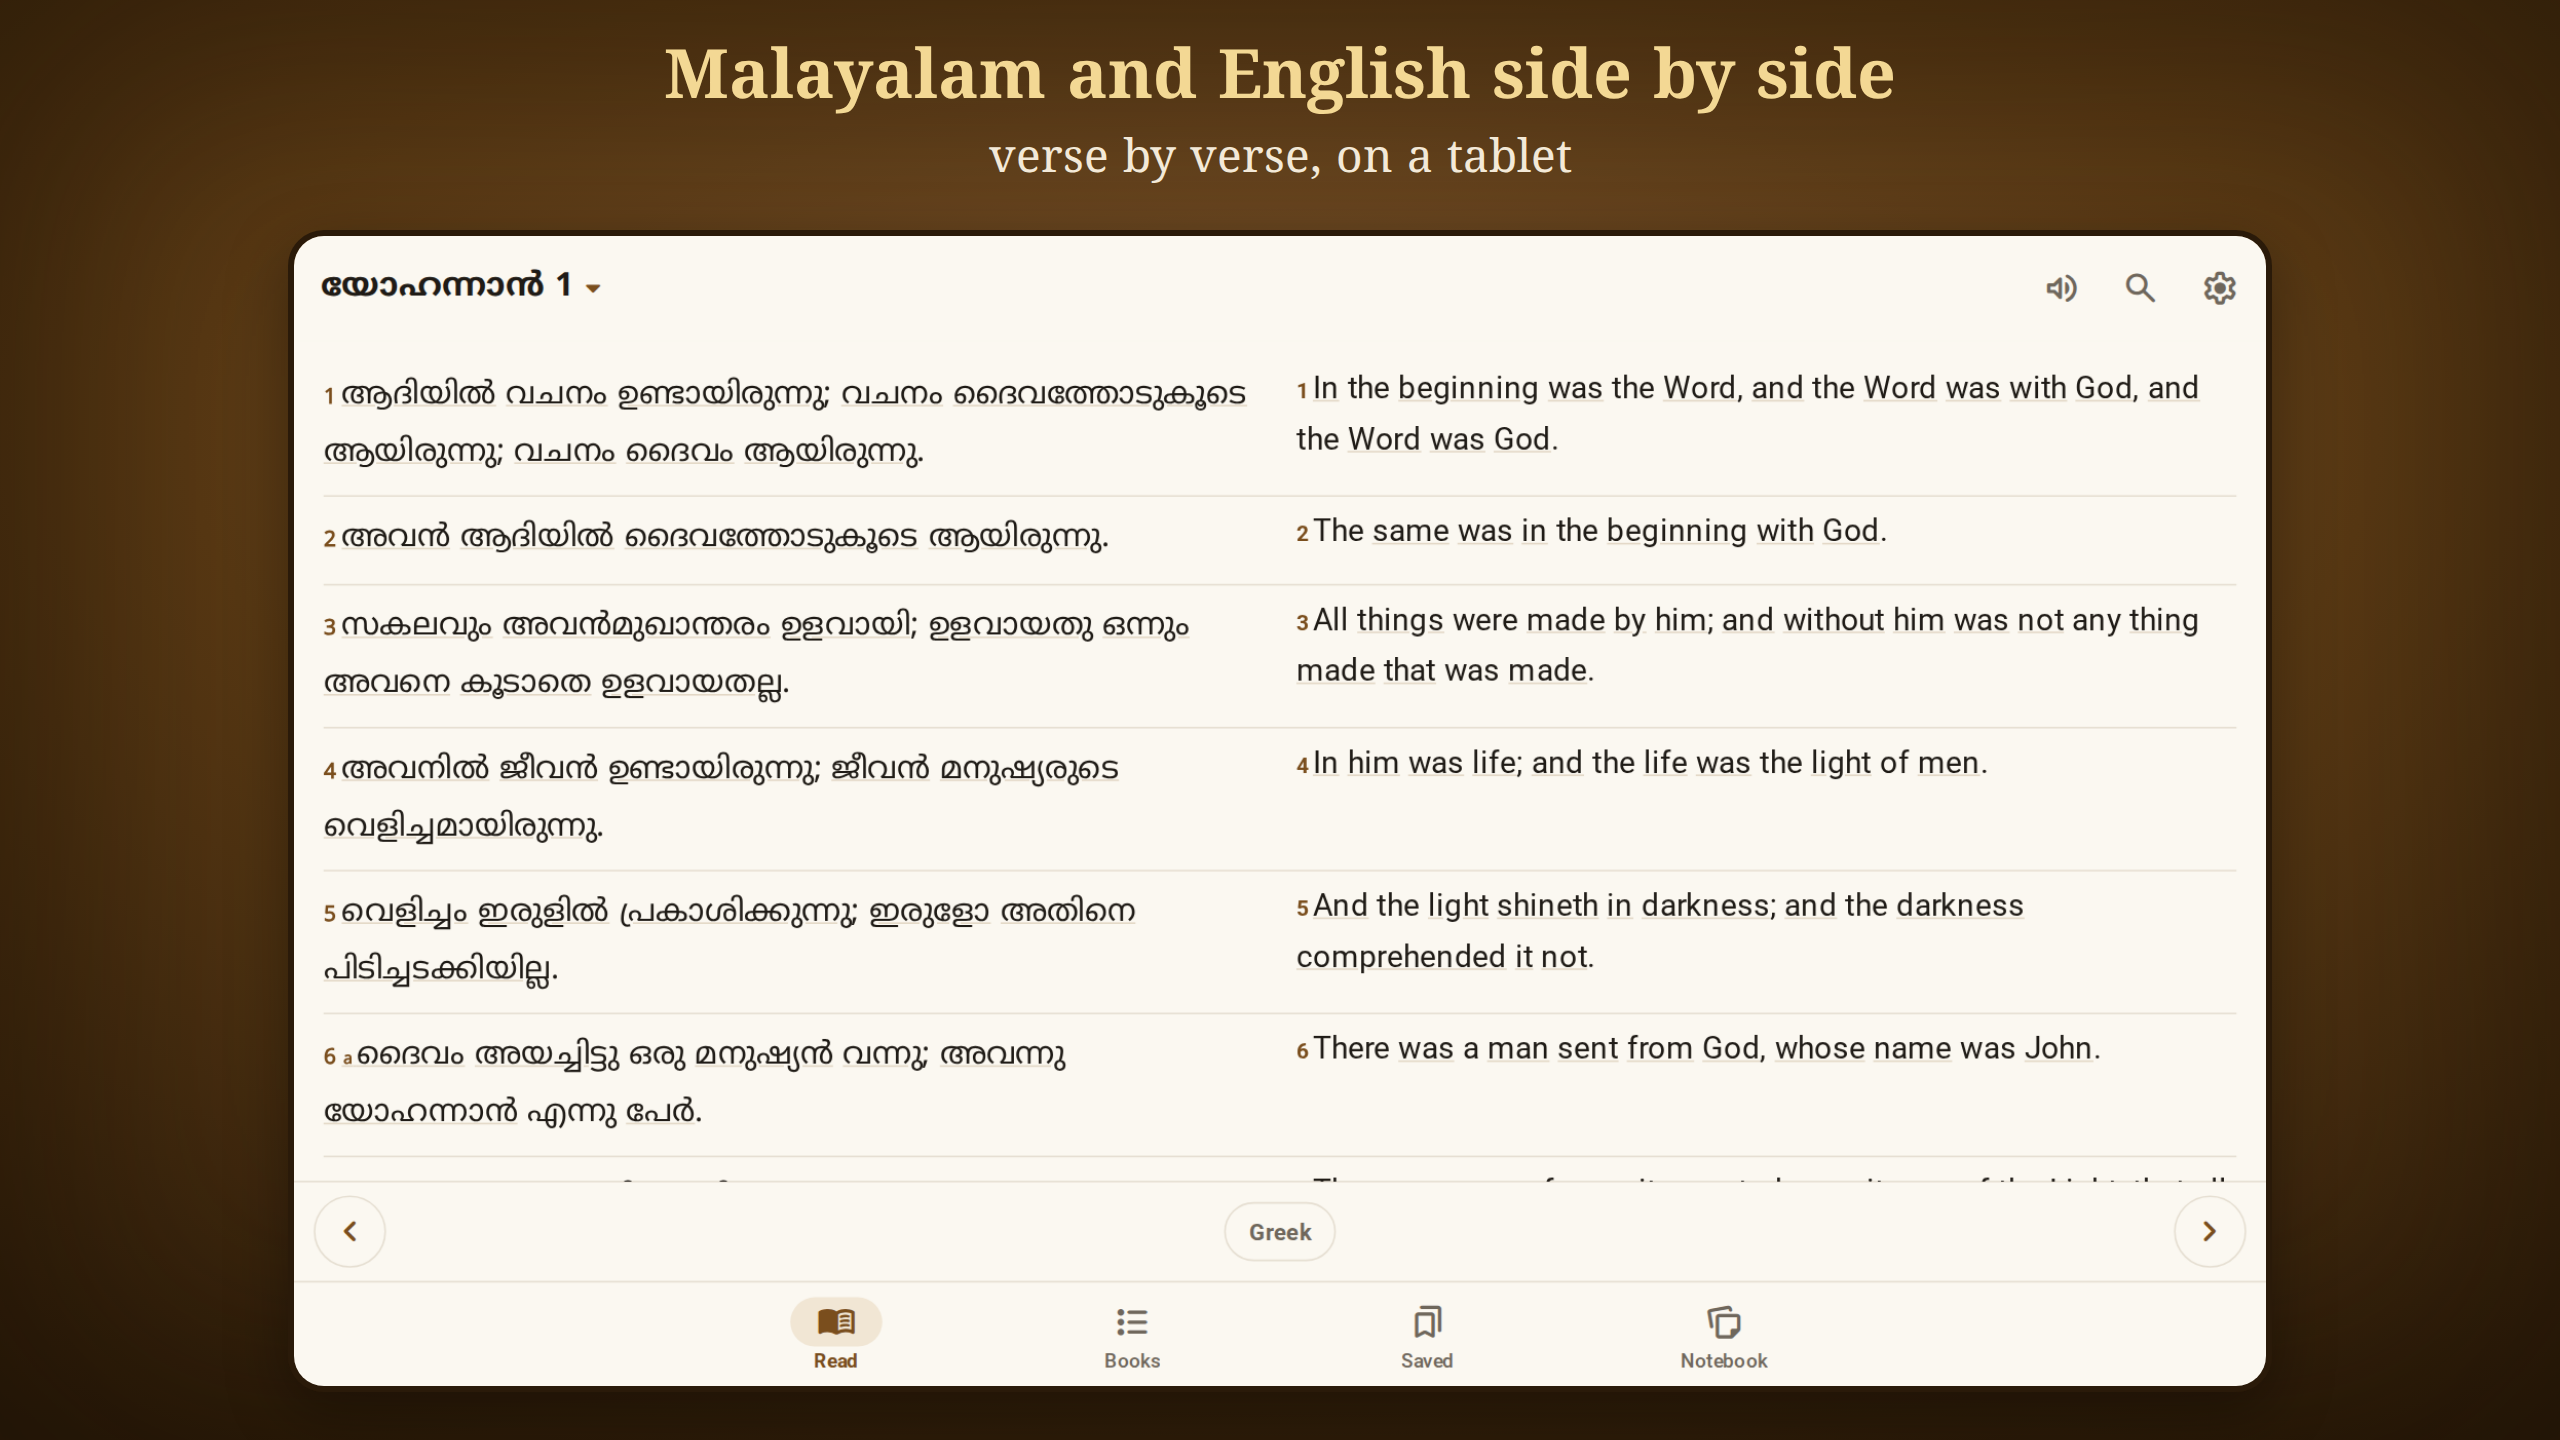
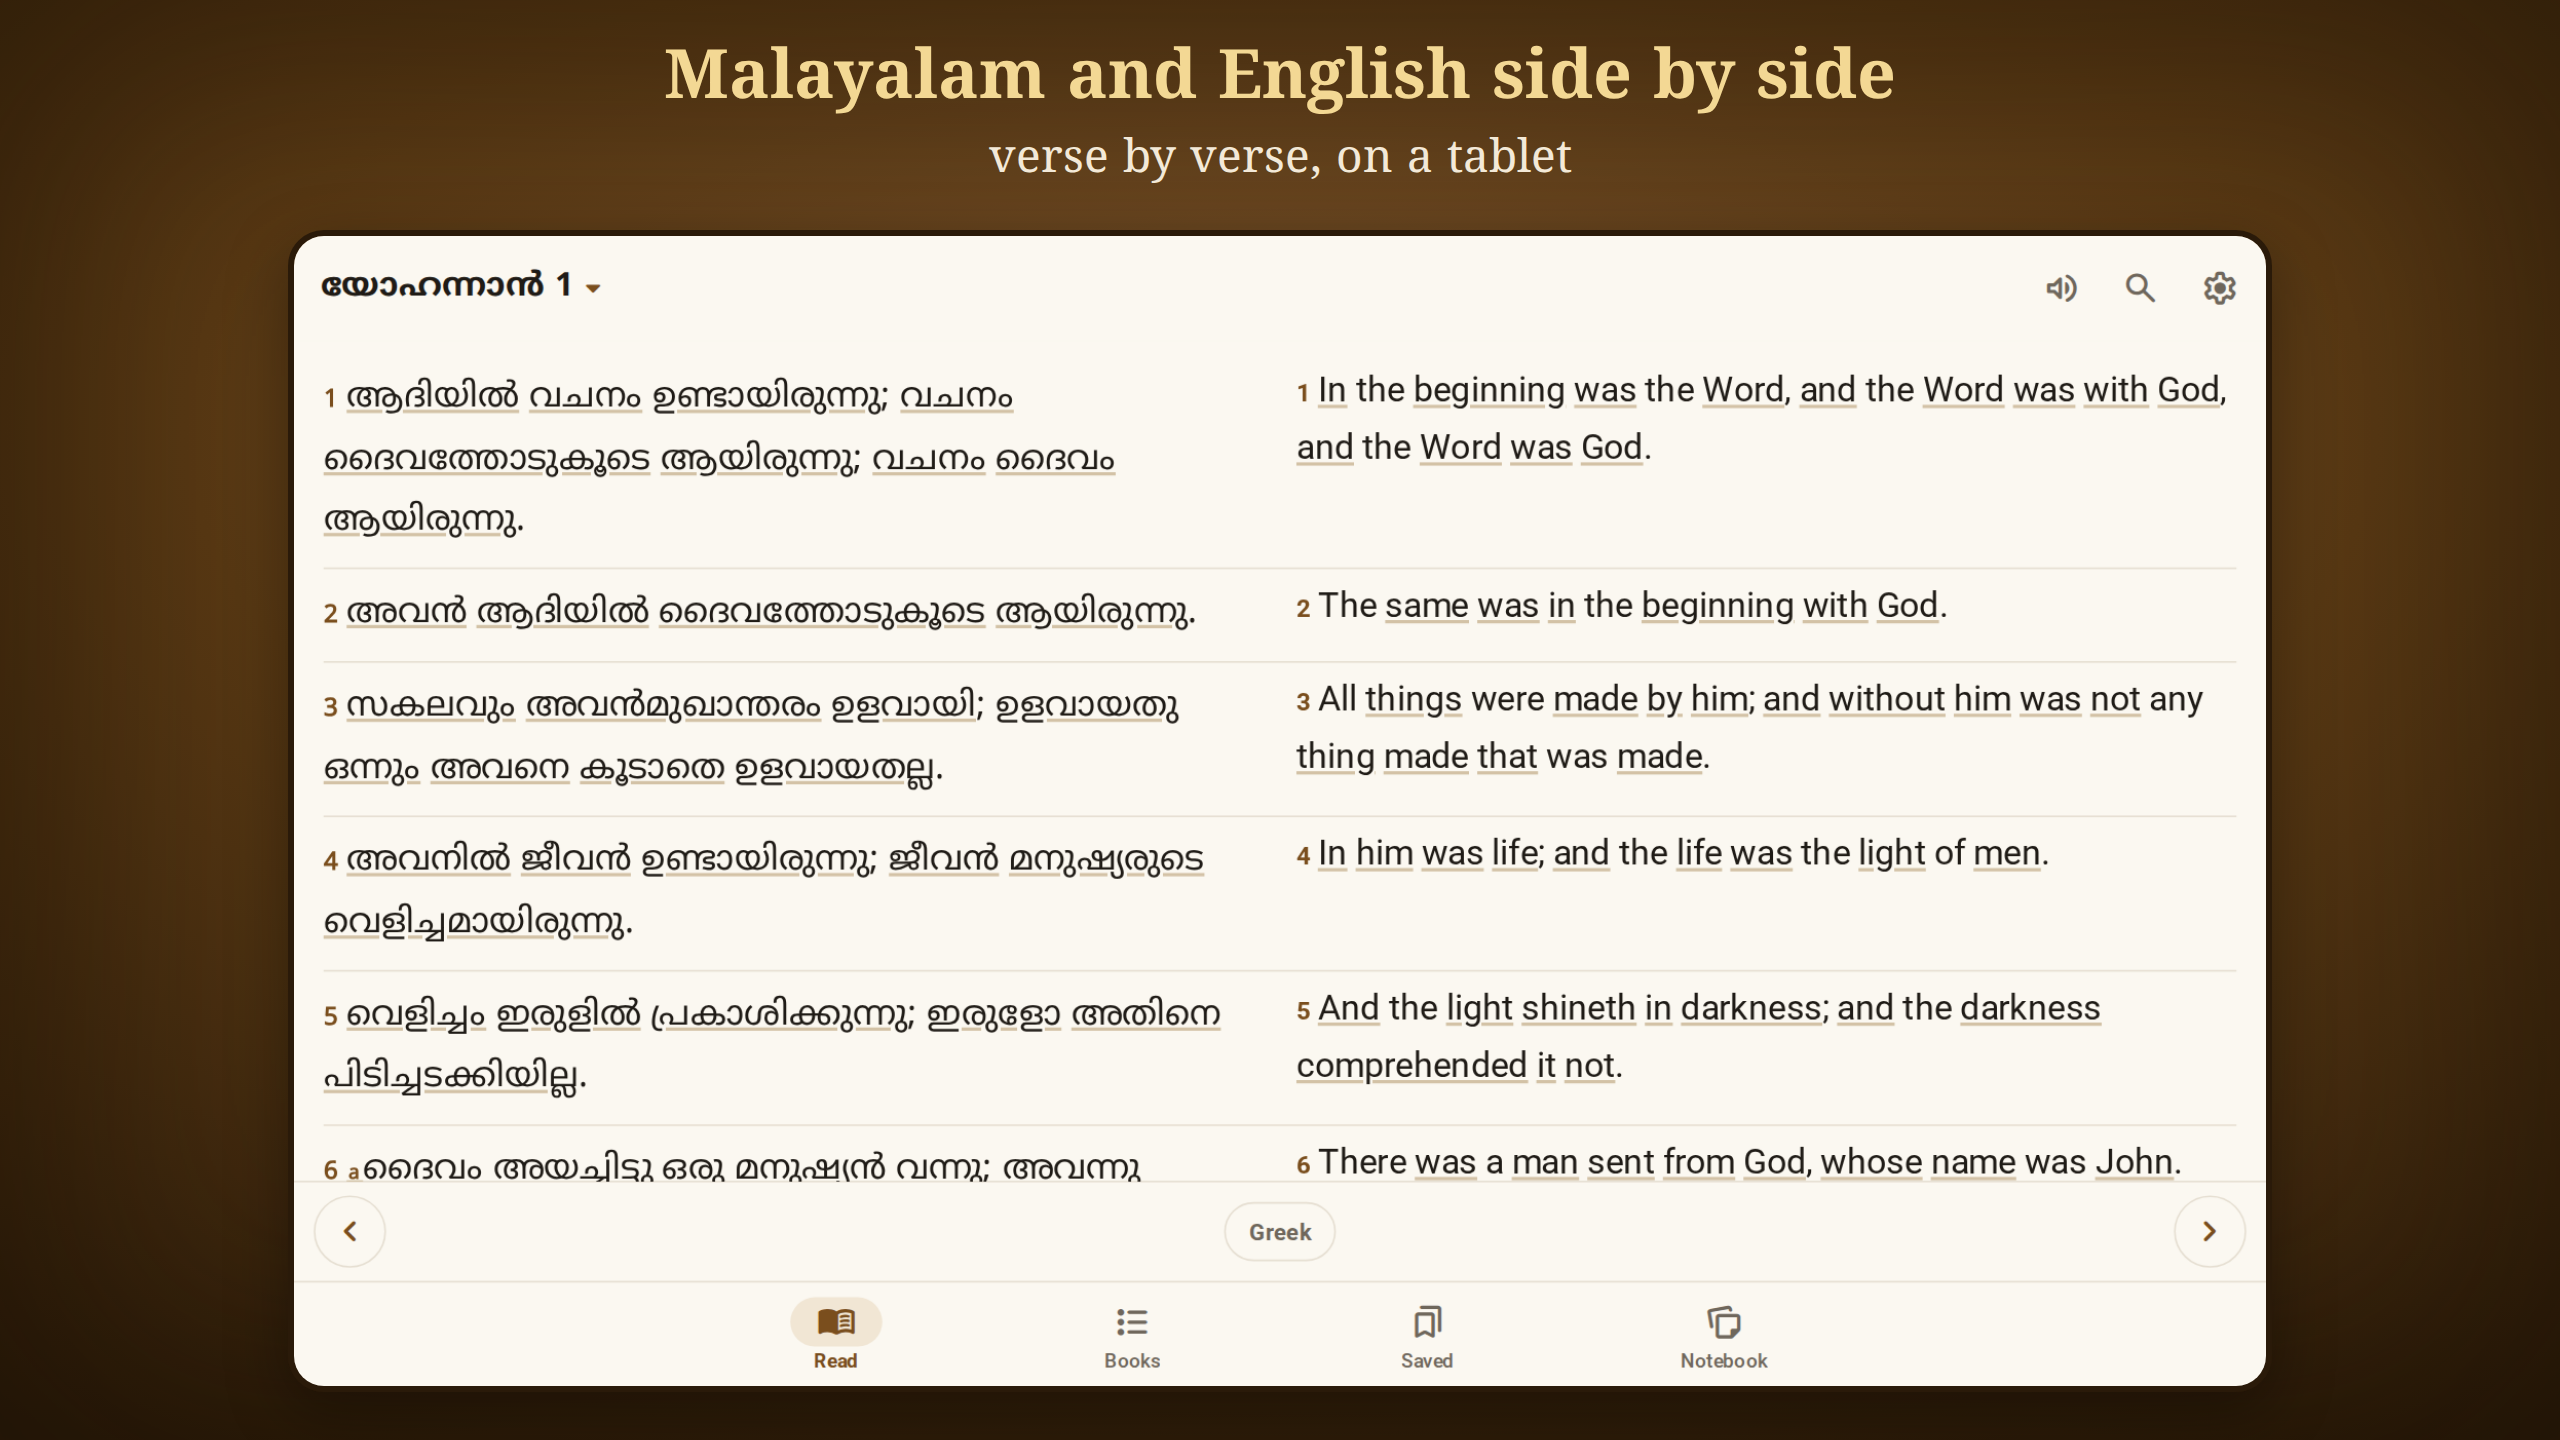
Play tablet screenshots for the Malayalam app, retaken for 0.4.18
Six each at 7 and 10 inches, in Malayalam and English: side by side, Greek words under
both texts, a word's panel, dark theme, and the two new features, handwritten notes and
a verse card on a photo.

Claude-Session: https://claude.ai/code/session_01Kt8QQgS1XLBE3LTVGzDsDj

Changed region(s): [[0.125, 0.25, 0.875, 0.8438], [0.5, 0.4062, 0.875, 0.75], [0.5, 0.7812, 0.8438, 0.8438]]

diff --git a/docs/play/README.md b/docs/play/README.md
@@ -100,10 +100,10 @@ Uninstalling removes the bookmarks and notes on that phone.
       bar is missing; the captions need a Malayalam speaker's read.
 - [ ] English translation of the listing: the eight in `screenshots/en/` (interface set to
       English, English captions, same order).
-- [ ] Tablet screenshots (from 0.4.11, which has the tablet layout and side by side): four
-      each for 7-inch (`screenshots/tablet7-ml/`, 1920 × 1080) and 10-inch
-      (`screenshots/tablet10-ml/`, 2560 × 1440): side by side, Greek words under both texts,
-      a word's sheet, dark theme. The English translation uses `tablet7-en/` and `tablet10-en/`.
+- [ ] Tablet screenshots (retaken for 0.4.18): six each for 7-inch (`screenshots/tablet7-ml/`,
+      1920 × 1080) and 10-inch (`screenshots/tablet10-ml/`, 2560 × 1440): side by side, Greek
+      words under both texts, a word's panel, dark theme, handwritten notes, a verse card on
+      a photo. The English translation uses `tablet7-en/` and `tablet10-en/`.
       Rendered the same way as the phone ones; the Malayalam captions need a speaker's read.
 - [ ] Category: Books & Reference. Contact email; website optional.
 
